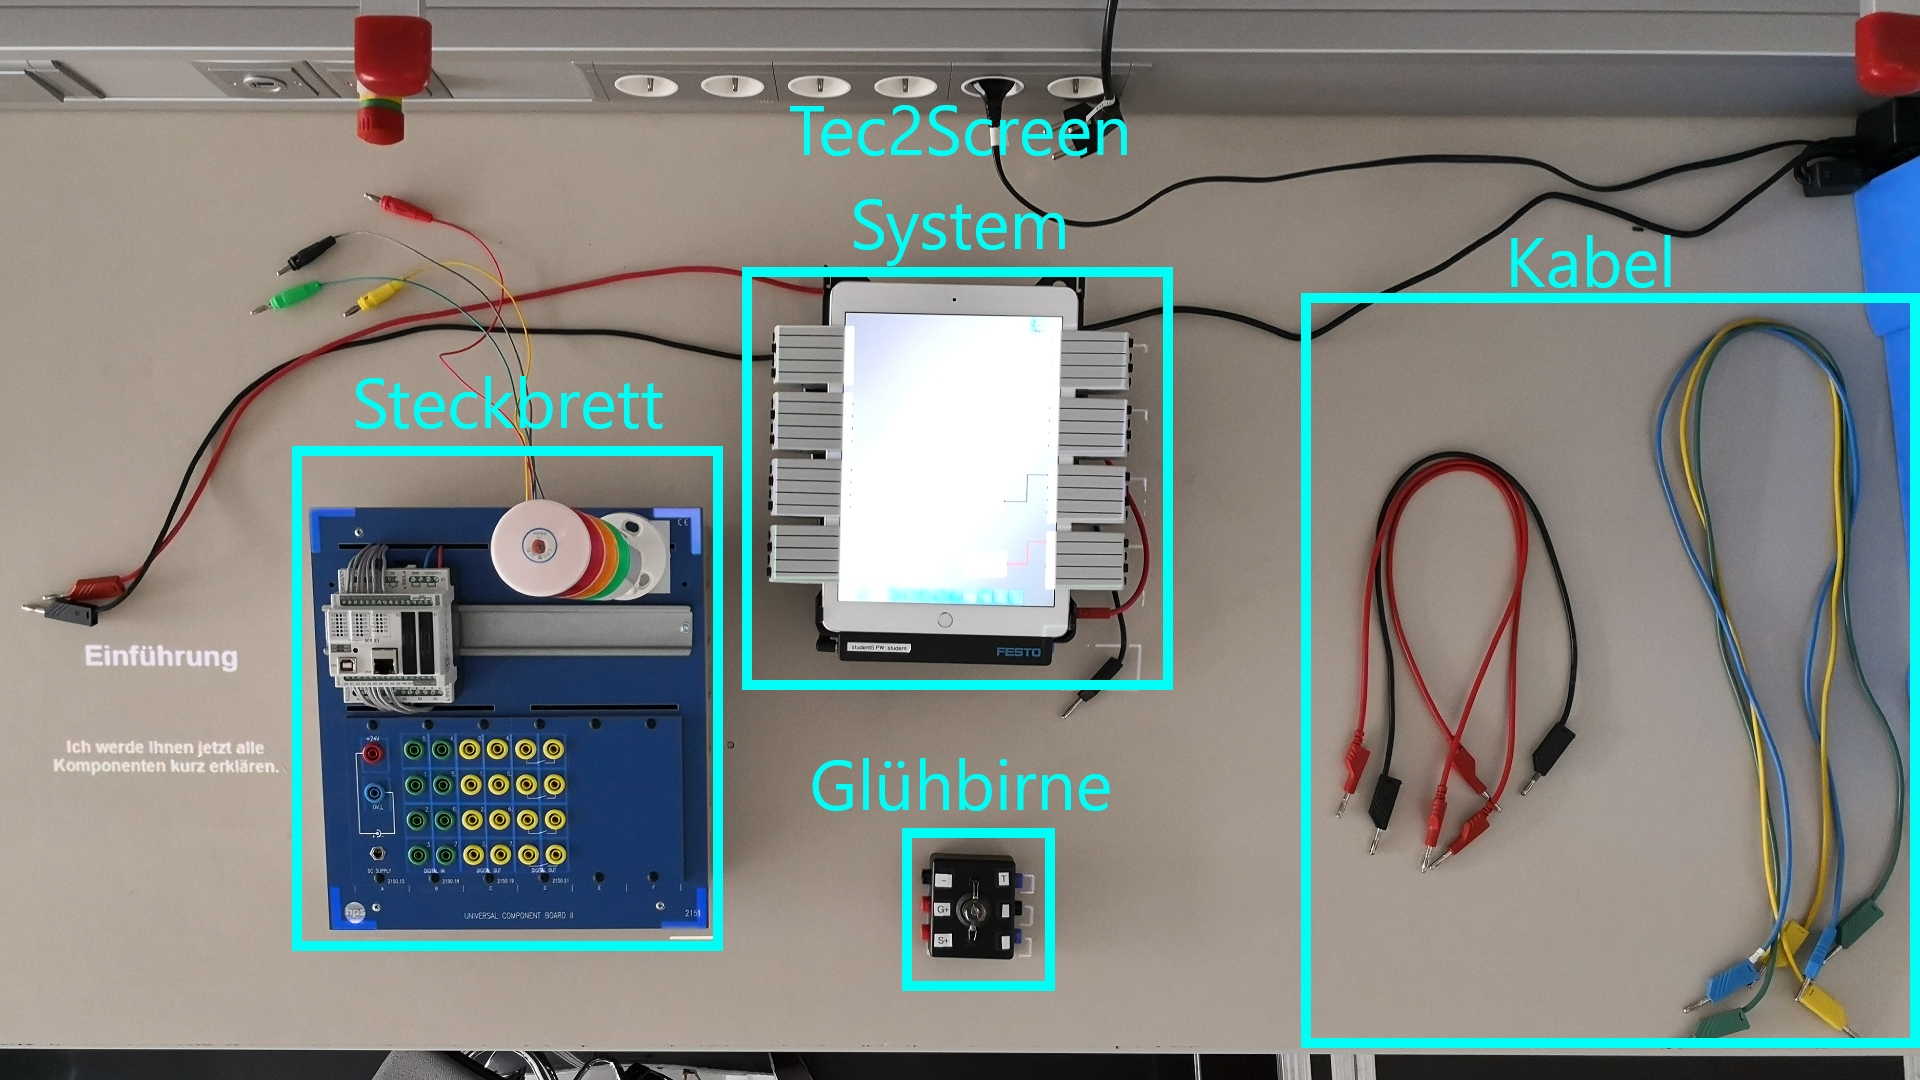
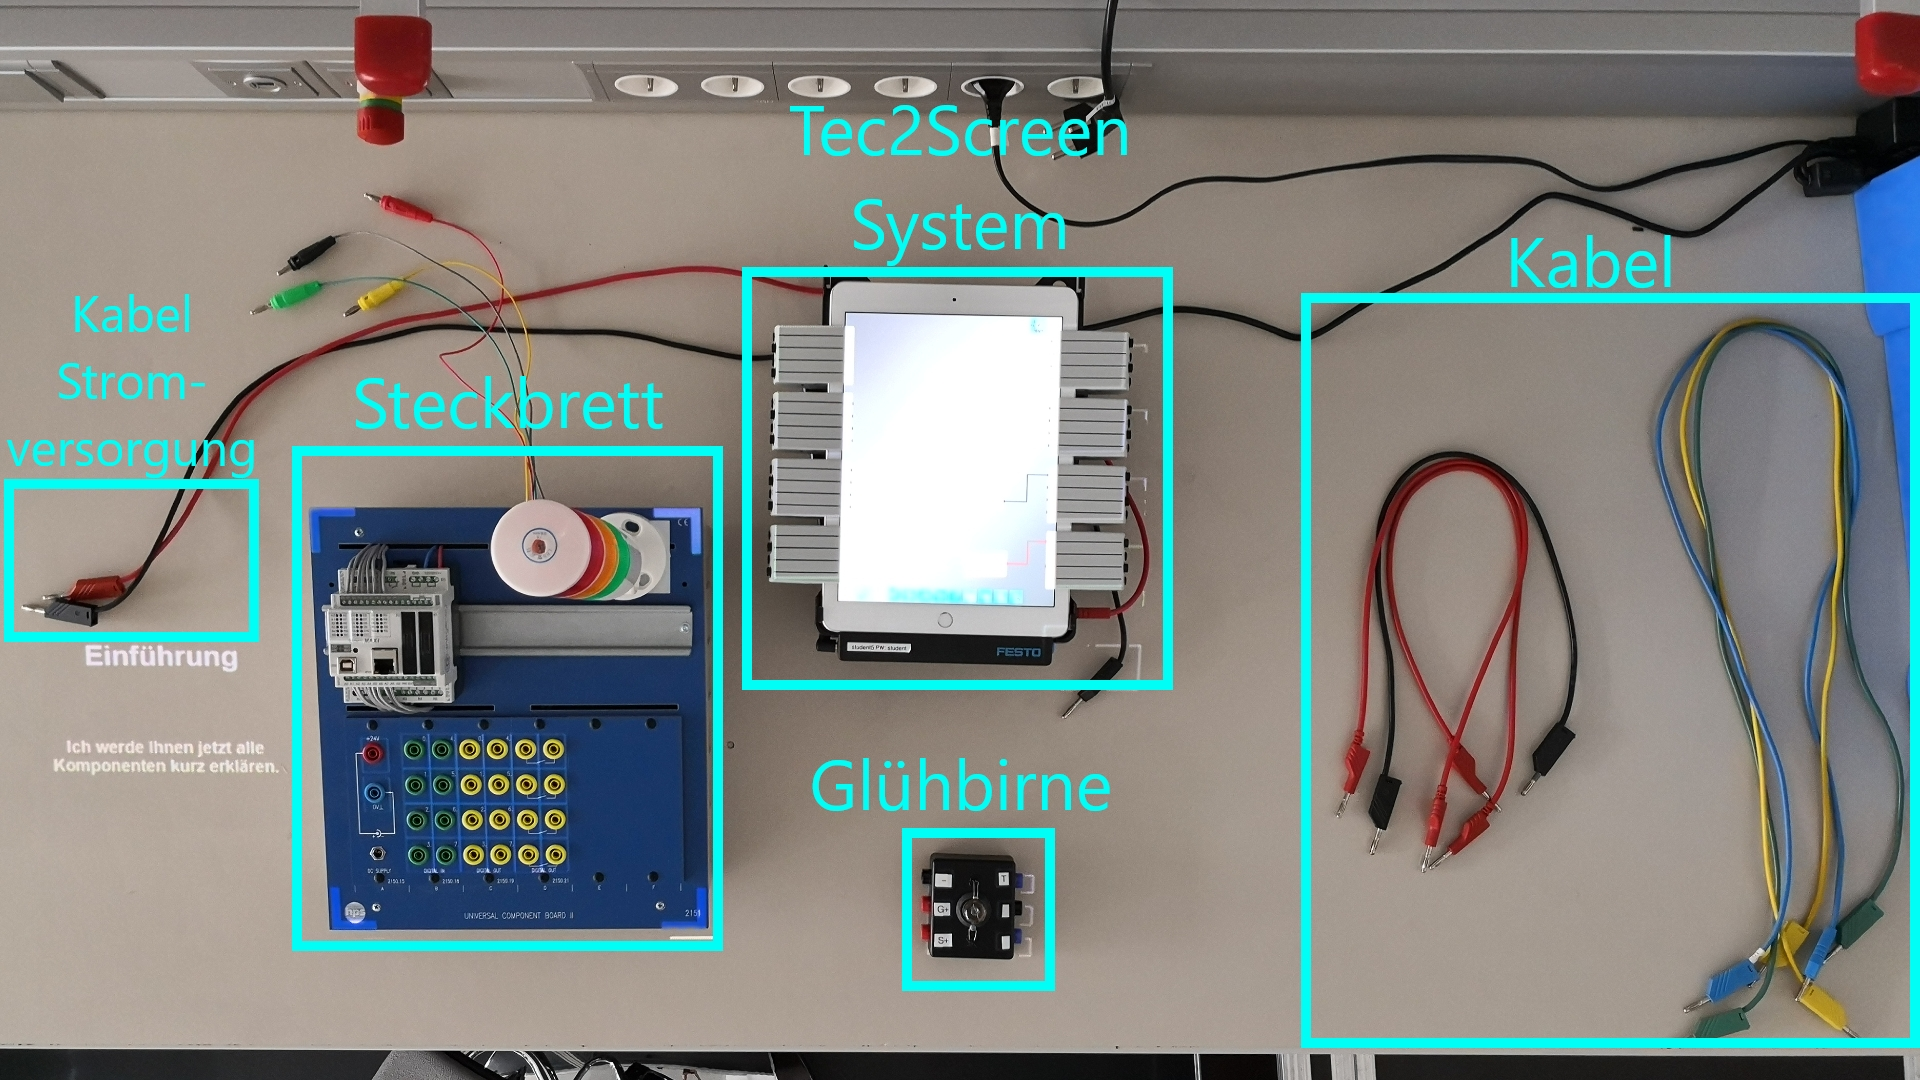
final adjustments for the experiment

Changed region(s): [[0.0, 0.3972, 0.1562, 0.6111], [0.0312, 0.3361, 0.125, 0.3667], [0.0312, 0.275, 0.125, 0.3056]]

diff --git a/src/store.js b/src/store.js
@@ -30,7 +30,7 @@ export default new Vuex.Store({
                 img: "/img/arbeitsplatz.jpg"
             },
             {
-                msg: "Rechts von Ihrem Arbeitsplatz befinden sich alle Kabel die Sie benötigen.",
+                msg: "Rechts von Ihrem Arbeitsplatz befinden sich alle zusätzlichen Kabel die Sie benötigen.",
                 detail: "",
                 inputs: [""],
                 img: "/img/kabel.jpg"
@@ -38,7 +38,7 @@ export default new Vuex.Store({
             {
                 msg: "Die Verbindung der Stromquelle befindet sich links auf dem Steckbrett.",
                 detail: "Die Kabel dazu liegen links vom Steckbrett.",
-                inputs: ["PWR", "GND"],
+                inputs: ["PWR", "GND", "src"],
                 img: "/img/steckbrett_details.jpg"
             },
             {
@@ -80,13 +80,13 @@ export default new Vuex.Store({
             {
                 msg: "Verbinden Sie das rote Kabel der Stromversorgung mit dem 24V Anschluss des Steckbretts.",
                 detail: "Die Stromzufuhr für das Steckbrett kommt vom Tec2Screen System.",
-                inputs: ["PWR"],
+                inputs: ["PWR", "src"],
                 img: "null"
             },
             {
-                msg: "Verbinden Sie das schwarze Kabel der Stromversorgung mit der Masse des Steckbretts.",
+                msg: "Verbinden Sie das schwarze Kabel der Stromversorgung mit der Masse (0V) des Steckbretts.",
                 detail: "Die Stromzufuhr für das Steckbrett kommt vom Tec2Screen System.",
-                inputs: ["GND"],
+                inputs: ["GND", "src"],
                 img: "null"
             },
             {
@@ -150,7 +150,7 @@ export default new Vuex.Store({
                 img: ""
             },
             {
-                msg: "Verbinden Sie nun die Masse der Glühbirne mit der Masse des Steckbretts.",
+                msg: "Verbinden Sie nun die Masse der Glühbirne (-) mit der Masse des Steckbretts (0V).",
                 detail: "Die Glühbirne sollte nun leuchten.",
                 inputs: ["g-", "GND"],
                 img: ""
@@ -175,10 +175,10 @@ export default new Vuex.Store({
                 img: "/img/gluhbirne_details.jpg"
             },
             {
-                msg: "Verbinden Sie den nun die Masse der Glühbirne mit der Masse des Steckbretts.",
+                msg: "Verbinden Sie den nun die Masse der Glühbirne (-) mit der Masse (0V) des Steckbretts.",
                 detail: "",
                 inputs: ["g-", "GND"],
-                img: "/img/gluhbirne_details.jpg"
+                img: "/img/tec2screen_details.jpg"
             },
             {
                 msg: "Der Schieberegler sollte die Glühbirne nun dimmen können",
@@ -211,13 +211,13 @@ export default new Vuex.Store({
                 img: "null"
             },
             {
-                msg: "Verbinden Sie mit einem roten Kabel den Helligkeitssensor der Glühbirne mit der Stromversorgung des Steckbretts.",
+                msg: "Verbinden Sie mit einem roten Kabel den Helligkeitssensor der Glühbirne (S+) mit der Stromversorgung des Steckbretts (+24V).",
                 detail: "In diesem Schritt verbinden wir die Stromversorgung des Helligkeitssensors mit der des Steckbretts.",
                 inputs: ["s+", "PWR"],
                 img: "null"
             },
             {
-                msg: "Verbinden Sie mit dem blauen Kabel den Lichtsensor der Glühbirne mit Eingang 1.",
+                msg: "Verbinden Sie mit dem blauen Kabel den Lichtsensor der Glühbirne (T) mit Eingang 1.",
                 detail: "Das erlaubt uns, den Sensorwert im Controllino auszulesen.",
                 inputs: ["i1", "st"],
                 img: "null"

diff --git a/src/components/ProjectionView.vue b/src/components/ProjectionView.vue
@@ -90,6 +90,10 @@
 
     </div>
 
+    <div
+        class="powerCables"
+        v-bind:class="[getSteps[getCurrentStep].inputs.includes('src') ? 'active' : '']"></div>
+
     <div id="worktopText">
       <br><br><br><br><br><br>
       <h1>{{ getSteps[getCurrentStep].msg }}</h1>
@@ -99,39 +103,39 @@
 
     <div id="tec2screen">
       <div
-      class="tec2screenBlock"
+          class="tec2screenBlock"
           style="top: 0px; left: 0px; width: 70px; height: 66px;"
           v-bind:class="[getSteps[getCurrentStep].inputs.includes('t1') ? 'active' : '']"></div>
       <div
-      class="tec2screenBlock"
+          class="tec2screenBlock"
           style="top: 0px; right: 12px; width: 70px; height: 66px;"
           v-bind:class="[getSteps[getCurrentStep].inputs.includes('t2') ? 'active' : '']"></div>
       <div
-      class="tec2screenBlock"
+          class="tec2screenBlock"
           style="top: 70px; left: 0px; width: 70px; height: 66px;"
           v-bind:class="[getSteps[getCurrentStep].inputs.includes('t3') ? 'active' : '']"></div>
       <div
-      class="tec2screenBlock"
+          class="tec2screenBlock"
           style="top:70px; right: 8px; width: 74px; height: 66px;"
           v-bind:class="[getSteps[getCurrentStep].inputs.includes('t4') ? 'active' : '']"></div>
       <div
-      class="tec2screenBlock"
+          class="tec2screenBlock"
           style="top: 140px; left: 0px; width: 70px; height: 66px;"
           v-bind:class="[getSteps[getCurrentStep].inputs.includes('t5') ? 'active' : '']"></div>
       <div
-      class="tec2screenBlock"
+          class="tec2screenBlock"
           style="top:145px; right: 4px; width: 78px; height: 66px;"
           v-bind:class="[getSteps[getCurrentStep].inputs.includes('t6') ? 'active' : '']"></div>
       <div
-      class="tec2screenBlock"
+          class="tec2screenBlock"
           style="top: 210px; left: 0px; width: 70px; height: 66px;"
           v-bind:class="[getSteps[getCurrentStep].inputs.includes('t7') ? 'active' : '']"></div>
       <div
-      class="tec2screenBlock"
+          class="tec2screenBlock"
           style="top:220px; right: 0px; width: 82px; height: 66px;"
           v-bind:class="[getSteps[getCurrentStep].inputs.includes('t8') ? 'active' : '']"></div>
       <div
-      class="tec2screenBlock"
+          class="tec2screenBlock"
           style="top:332px; right: 0px; width: 82px; height: 50px;"
           v-bind:class="[getSteps[getCurrentStep].inputs.includes('tGND') ? 'active' : '']"></div>
     </div>
@@ -230,22 +234,19 @@ export default {
 #onBoardText {
   height: 160px;
   width: 116px;
-//background-color: black; color: white; position: absolute; left: 271px;
-  top: 253px;
+//background-color: black; color: white; position: absolute; left: 271px; top: 253px;
 }
 
 #worktopText {
   height: 480px;
   width: 320px;
-//background-color: red; color: white; position: absolute; left: 0px;
-  top: 200px;
+//background-color: red; color: white; position: absolute; left: 0px; top: 200px;
 }
 
 #tec2screen {
   height: 480px;
   width: 380px;
-//background-color: red; color: white; position: absolute; left: 850px;
-  top: 0px;
+//background-color: red; color: white; position: absolute; left: 850px; top: 0px;
 }
 
 #lightbulb {
@@ -305,6 +306,14 @@ export default {
   position: absolute;
   border: 1px solid white;
 //background-color: white
+}
+
+.powerCables {
+  position: absolute;
+  top: 180px;
+  left: 180px;
+  width: 82px;
+  height: 50px;
 }
 
 
